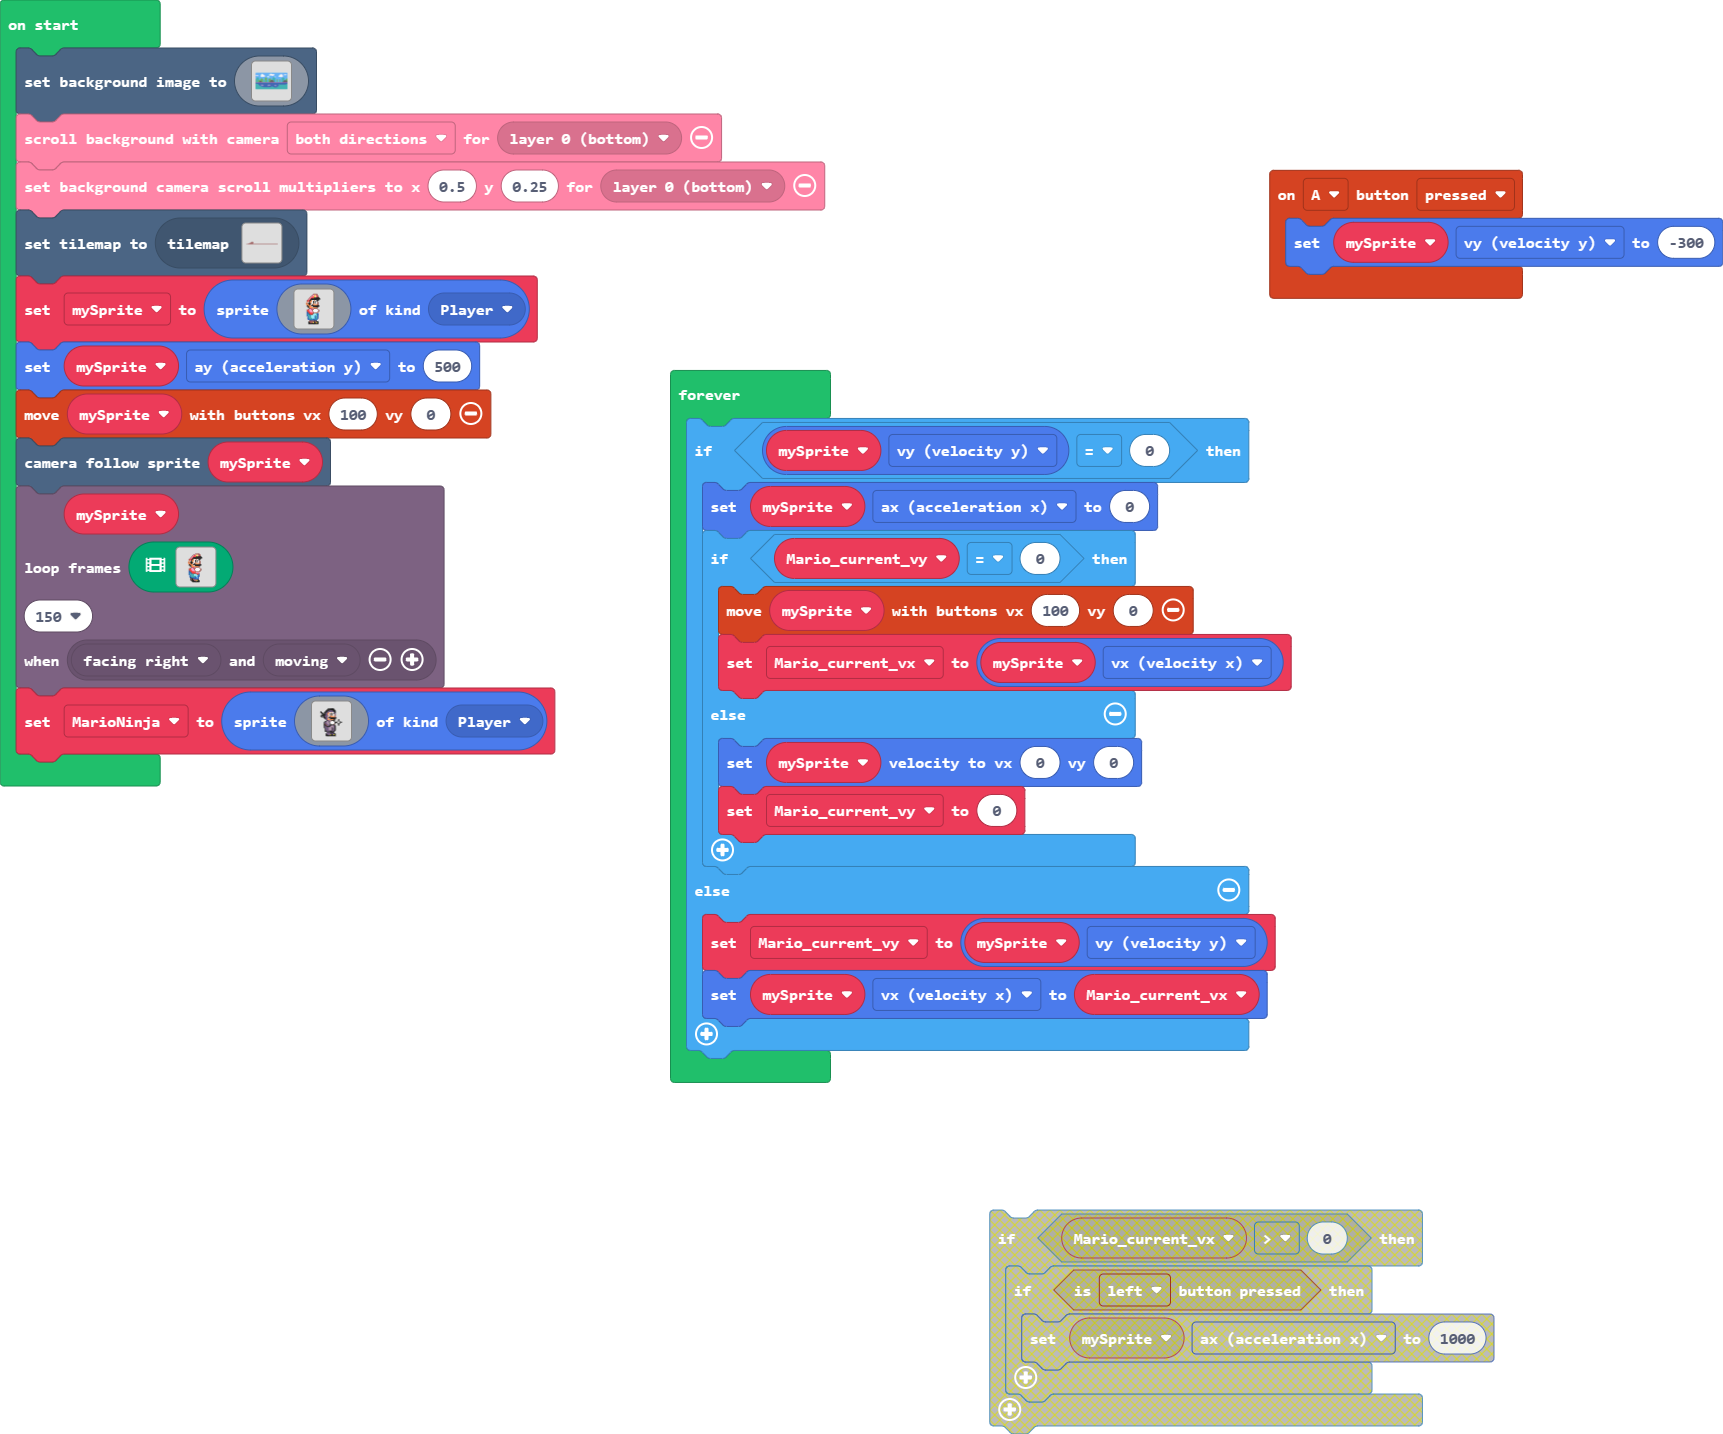
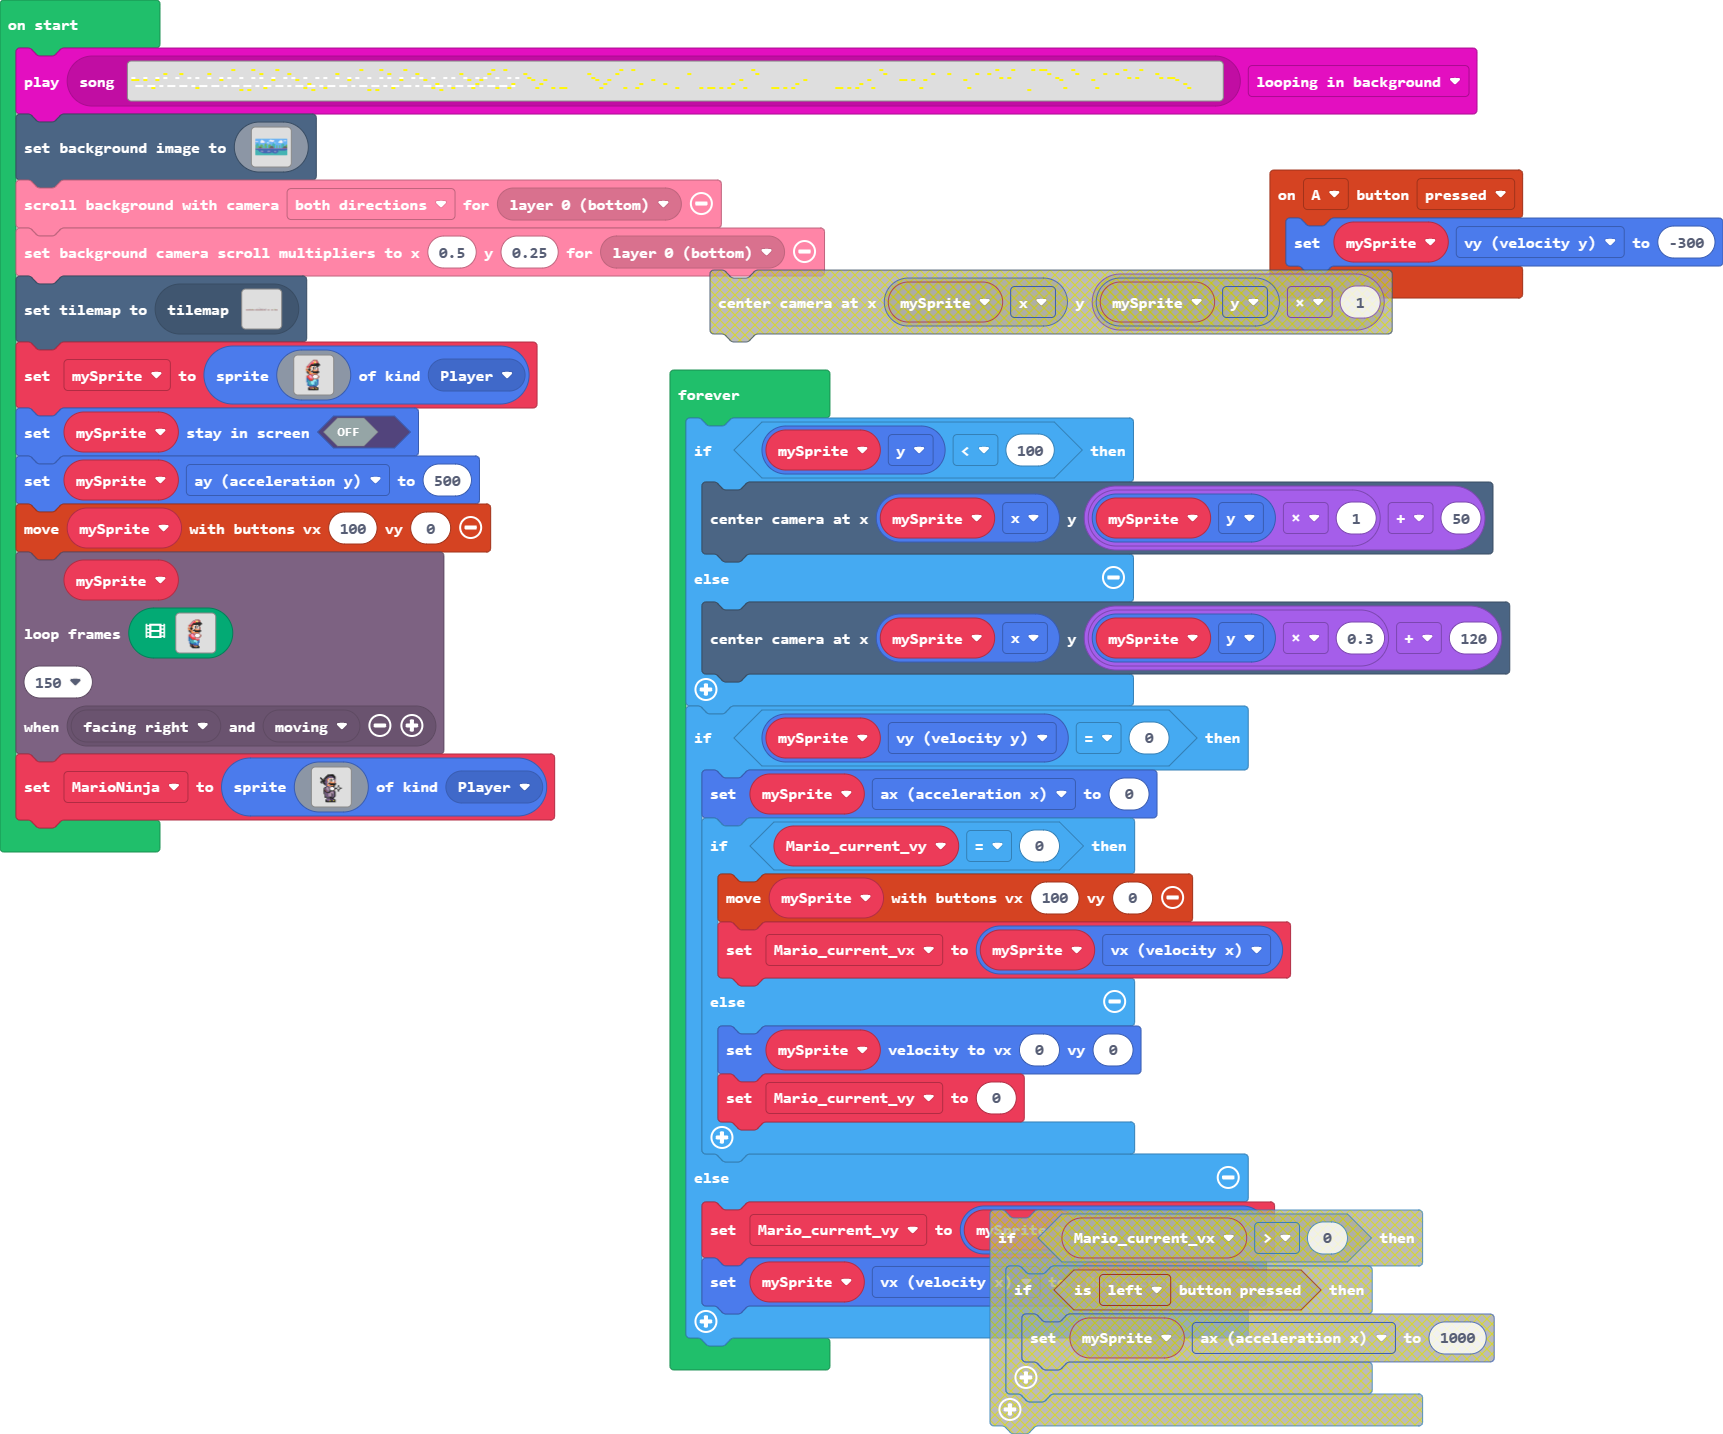
Update main.blocks, main.ts, tilemap.g.jres, tilemap.g.ts

diff --git a/tilemap.g.ts b/tilemap.g.ts
@@ -6,6 +6,24 @@ namespace myTiles {
     export const tile1 = image.ofBuffer(hex``);
     //% fixedInstance jres blockIdentity=images._tile
     export const tile2 = image.ofBuffer(hex``);
+    //% fixedInstance jres blockIdentity=images._tile
+    export const tile3 = image.ofBuffer(hex``);
+    //% fixedInstance jres blockIdentity=images._tile
+    export const tile4 = image.ofBuffer(hex``);
+    //% fixedInstance jres blockIdentity=images._tile
+    export const tile5 = image.ofBuffer(hex``);
+    //% fixedInstance jres blockIdentity=images._tile
+    export const tile6 = image.ofBuffer(hex``);
+    //% fixedInstance jres blockIdentity=images._tile
+    export const tile7 = image.ofBuffer(hex``);
+    //% fixedInstance jres blockIdentity=images._tile
+    export const tile8 = image.ofBuffer(hex``);
+    //% fixedInstance jres blockIdentity=images._tile
+    export const tile9 = image.ofBuffer(hex``);
+    //% fixedInstance jres blockIdentity=images._tile
+    export const tile10 = image.ofBuffer(hex``);
+    //% fixedInstance jres blockIdentity=images._tile
+    export const tile11 = image.ofBuffer(hex``);
 
     helpers._registerFactory("tilemap", function(name: string) {
         switch(helpers.stringTrim(name)) {
@@ -67,24 +85,24 @@ namespace myTiles {
 . . . . . . . . . . . . . . . . 
 `, [myTiles.transparency16], TileScale.Sixteen);
             case "level1":
[2 lines of base64/hex data omitted]
 ................................................................................................................................................................
 ................................................................................................................................................................
 ................................................................................................................................................................
 ................................................................................................................................................................
+.................................................................222222.........................................................................................
 ................................................................................................................................................................
-..........................22222222222...........................................................................................................................
-..........................22222222222...........................................................................................................................
-..........................22222222222...........................................................................................................................
-..........................22222222222...........................................................................................................................
-...................222222222222222222...........................................................................................................................
-...................222222222222222222...........................................................................................................................
-...................222222222222222222...........................................................................................................................
-.............222222222222222222222222...........................................................................................................................
-.............222222222222222222222222...........................................................................................................................
-.......222222222222222222222222222222222222222222222222222222222222222222222222222222222222222222222222222222222222222222222222222222222222222222222222222222222
-2222222222222222222222222222222222222222222222222222222222222222222222222222222222222222222222222222222222222222222222222222222222222222222222222222222222222222
-`, [myTiles.transparency16,myTiles.tile2], TileScale.Sixteen);
+................................................................................................................................................................
+..........................................................222............22.....................................................................................
+.........................................................................22........22..............22...........................................................
+.........................................................................22........22..............22...........................................................
+..................2...2........222...................222.................22..22....22......22......22..........................................222..............
+.................22...22.......222.......................................22..22....22......22......22..........................................222..............
+................222...222......222.......................................22..22....22......22......22..........................................222..............
+2222222222222222222222222222222222222222222....2222222222222222222222222222222222222222..222222222222........2222222222........2222222222......22222222222222222
+2222222222222222222222222222222222222222222....2222222222222222222222222222222222222222..222222222222........2222222222........2222222222......22222222222222222
+2222222222222222222222222222222222222222222....2222222222222222222222222222222222222222..222222222222........2222222222........2222222222......22222222222222222
+`, [myTiles.transparency16,myTiles.tile2,sprites.dungeon.floorDark2,myTiles.tile3,myTiles.tile4,myTiles.tile5,myTiles.tile6,myTiles.tile7,myTiles.tile8,myTiles.tile9,myTiles.tile10], TileScale.Sixteen);
         }
         return null;
     })
@@ -96,6 +114,24 @@ namespace myTiles {
             case "tile1":return tile1;
             case "myTile0":
             case "tile2":return tile2;
+            case "myTile1":
+            case "tile3":return tile3;
+            case "myTile2":
+            case "tile4":return tile4;
+            case "myTile3":
+            case "tile5":return tile5;
+            case "myTile4":
+            case "tile6":return tile6;
+            case "myTile5":
+            case "tile7":return tile7;
+            case "myTile6":
+            case "tile8":return tile8;
+            case "myTile7":
+            case "tile9":return tile9;
+            case "myTile8":
+            case "tile10":return tile10;
+            case "myTile9":
+            case "tile11":return tile11;
         }
         return null;
     })

diff --git a/main.ts b/main.ts
@@ -4,6 +4,7 @@ controller.A.onEvent(ControllerButtonEvent.Pressed, function () {
 let Mario_current_vx = 0
 let Mario_current_vy = 0
 let mySprite: Sprite = null
[1 lines of base64/hex data omitted]
 scene.setBackgroundImage(img`
     99999999999999999999999999999999999999999999999999999999999999999999999999999999999999999999999999999999999999999999999999999999999999999999999999999999999999999999999999999999999999999999999999999999999999999999999999999999999999999999999999999999999999999999999999999999999999999999999999999999999999999999999999999999
     99999999999999999999999999999999999999999999999999999999999999999999999999999999999999999999999999999999999999999999999999999999999999999999999999999999999999999999999999999999999999999999999999999999999999999999999999999999999999999999999999999999999999999999999999999999999999999999999999999999999999999999999999999999
@@ -207,9 +208,9 @@ mySprite = sprites.create(img`
     ...fffffffffff..
     ................
     `, SpriteKind.Player)
+mySprite.setStayInScreen(false)
 mySprite.ay = 500
 controller.moveSprite(mySprite, 100, 0)
-scene.cameraFollowSprite(mySprite)
 characterAnimations.loopFrames(
 mySprite,
 [img`
@@ -403,6 +404,11 @@ let MarioNinja = sprites.create(img`
     ........................
     `, SpriteKind.Player)
 forever(function () {
+    if (mySprite.y < 100) {
+        scene.centerCameraAt(mySprite.x, mySprite.y * 1 + 50)
+    } else {
+        scene.centerCameraAt(mySprite.x, mySprite.y * 0.3 + 120)
+    }
     if (mySprite.vy == 0) {
         mySprite.ax = 0
         if (Mario_current_vy == 0) {
